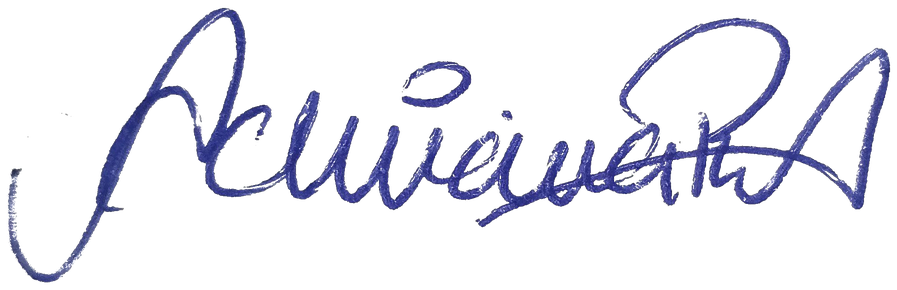
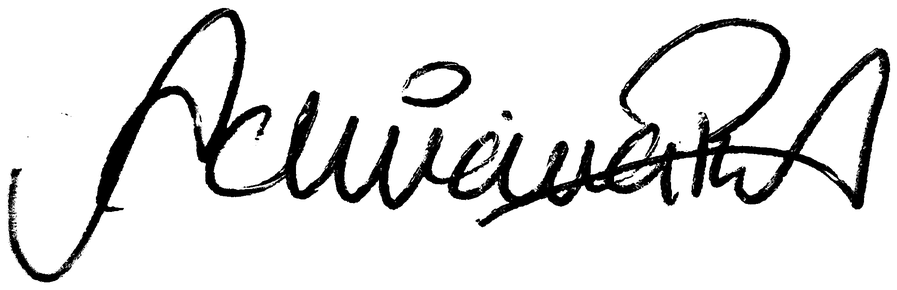
Referencia comercial: firma en negro y años de relación con Smartbit
- public/AdrianaFirma.png: la tinta pasa de azul a negro (fondo sigue
  transparente).
- partner-history: además de la primera factura en Odoo, busca la fecha
  más vieja del cliente en ventas_smartbit (histórico pre-Odoo), cruzando
  por RIF (codigo_cliente = res.partner.vat sin guiones ni espacios) y por
  la sede de la carta (company_id 9/10). Gana la más vieja; si la MySQL no
  responde se sigue con Odoo solo.
- La página pasa company_id según el membrete y muestra de qué fuente salió
  la fecha.

Changed region(s): [[0.0, 0.031, 0.9989, 0.9931], [0.437, 0.1862, 0.5307, 0.3724], [0.5619, 0.3724, 0.5931, 0.4034]]

diff --git a/app/api/superadmin/cuentas-por-cobrar/partner-history/route.ts b/app/api/superadmin/cuentas-por-cobrar/partner-history/route.ts
@@ -1,4 +1,5 @@
 import { callOdooRPC } from "@/lib/odoo";
+import { query } from "@/lib/db";
 import { requireRoles } from "@/lib/auth/roles";
 import { NextRequest, NextResponse } from "next/server";
 
@@ -10,13 +11,20 @@ export const dynamic = "force-dynamic";
  * "Anos de relacion" en la carta era un numero escrito a mano (por defecto 2)
  * sin respaldo en ningun dato real — cualquiera podia imprimir una carta con
  * una antiguedad de relacion comercial inventada. Esto le da al formulario un
- * valor real de donde partir; sigue siendo editable a mano porque puede haber
- * relacion comercial de antes de que existiera este Odoo.
+ * valor real de donde partir; sigue siendo editable a mano.
  *
  * Se consulta TODO el historial (sin filtrar por amount_residual, a
  * diferencia de digiflex.cxc.report) porque un cliente con años de relacion
  * puede tener cero facturas abiertas hoy.
+ *
+ * Odoo solo factura desde el corte de 2026-04-01; lo anterior esta en la
+ * tabla MySQL `ventas_smartbit` (lib/smartbit.ts). Ahi no hay partner_id de
+ * Odoo, asi que se cruza por RIF (`codigo_cliente` = `res.partner.vat`, sin
+ * guiones ni espacios) y por la sede de la carta (`company_id`). Gana la
+ * fecha mas vieja de las dos fuentes.
  */
+const normalizarRif = (v: string) => v.toUpperCase().replace(/[^A-Z0-9]/g, "");
+
 export async function GET(request: NextRequest) {
   const auth = await requireRoles(request, ["cuentas por cobrar"]);
   if (auth.error) return auth.error;
@@ -27,22 +35,49 @@ export async function GET(request: NextRequest) {
     if (!Number.isFinite(partnerId) || partnerId <= 0) {
       return NextResponse.json({ error: "partner_id invalido" }, { status: 400 });
     }
+    const companyId = parseInt(searchParams.get("company_id") || "", 10);
 
-    const invoices = await callOdooRPC<any[]>(
-      "account.move",
-      "search_read",
-      [[
-        ["partner_id", "=", partnerId],
-        ["move_type", "in", ["out_invoice", "out_refund"]],
-        ["state", "=", "posted"],
-      ]],
-      { fields: ["invoice_date"], order: "invoice_date asc", limit: 1 },
-    );
+    const [invoices, partners] = await Promise.all([
+      callOdooRPC<any[]>(
+        "account.move",
+        "search_read",
+        [[
+          ["partner_id", "=", partnerId],
+          ["move_type", "in", ["out_invoice", "out_refund"]],
+          ["state", "=", "posted"],
+        ]],
+        { fields: ["invoice_date"], order: "invoice_date asc", limit: 1 },
+      ),
+      callOdooRPC<any[]>("res.partner", "read", [[partnerId]], { fields: ["vat"] }),
+    ]);
 
-    const firstDate: string | null = invoices?.[0]?.invoice_date || null;
+    const primeraOdoo: string | null = invoices?.[0]?.invoice_date?.split(" ")[0] || null;
+
+    // Historico Smartbit. Si la MySQL no responde se sigue con Odoo solo.
+    let primeraSmartbit: string | null = null;
+    const rif = normalizarRif(partners?.[0]?.vat || "");
+    if (rif && Number.isFinite(companyId)) {
+      try {
+        const { rows } = await query(
+          `SELECT DATE_FORMAT(MIN(fecha), '%Y-%m-%d') AS primera
+             FROM ventas_smartbit
+            WHERE company_id = ?
+              AND REPLACE(REPLACE(UPPER(codigo_cliente), '-', ''), ' ', '') = ?`,
+          [companyId, rif],
+        );
+        primeraSmartbit = (rows as any[])[0]?.primera || null;
+      } catch (e: any) {
+        console.error("partner-history: ventas_smartbit no disponible:", e.message);
+      }
+    }
+
+    const candidatas = [primeraOdoo, primeraSmartbit].filter(Boolean) as string[];
+    const firstDate = candidatas.length ? candidatas.sort()[0] : null;
+    const fuente = !firstDate ? null : firstDate === primeraSmartbit ? "smartbit" : "odoo";
+
     let years: number | null = null;
     if (firstDate) {
-      const [y, m, d] = firstDate.split(" ")[0].split("-").map(Number);
+      const [y, m, d] = firstDate.split("-").map(Number);
       const first = new Date(y, m - 1, d);
       const now = new Date();
       years = now.getFullYear() - first.getFullYear();
@@ -53,7 +88,7 @@ export async function GET(request: NextRequest) {
       years = Math.max(years, 0);
     }
 
-    return NextResponse.json({ success: true, firstInvoiceDate: firstDate, years });
+    return NextResponse.json({ success: true, firstInvoiceDate: firstDate, fuente, years });
   } catch (error: any) {
     console.error("Error obteniendo historial de partner:", error);
     return NextResponse.json({ error: error.message }, { status: 500 });

diff --git a/app/[locale]/cuentas-por-cobrar/referencia-comercial/page.tsx b/app/[locale]/cuentas-por-cobrar/referencia-comercial/page.tsx
@@ -80,6 +80,7 @@ function yearSuffix(y: number): string {
 type Sede = "valencia" | "caracas";
 
 const SEDES: Record<Sede, {
+  companyId: number;
   ciudad: string;
   logo: string;
   logoAncho: string;
@@ -92,6 +93,7 @@ const SEDES: Record<Sede, {
   pie: string;
 }> = {
   valencia: {
+    companyId: 9,
     ciudad: "Valencia",
     logo: "/osclogo.jpg",
     logoAncho: "170px",
@@ -105,6 +107,7 @@ const SEDES: Record<Sede, {
       "Valencia Zona Ind. Sur. Av. Ernesto Berrind, CEI Arturo Michelena Galpón C4 Valencia edo Carabobo | Telefax: (0241) 1326646 | 8728319 e-mail: venta04@osc2004.com Copyright©2010 | Todos los derechos de propiedad intelectual reservada, imágenes propias y referencias",
   },
   caracas: {
+    companyId: 10,
     ciudad: "Caracas",
     logo: "/supricom-reporte-logo.png",
     logoAncho: "200px",
@@ -163,6 +166,7 @@ export default function ReferenciaComercialPage() {
   const [yearsRelation, setYearsRelation] = useState(2);
   const [yearsEdited, setYearsEdited] = useState(false);
   const [firstInvoiceDate, setFirstInvoiceDate] = useState<string | null>(null);
+  const [fuenteFecha, setFuenteFecha] = useState<"odoo" | "smartbit" | null>(null);
   const [loadingHistory, setLoadingHistory] = useState(false);
   const letterRef = useRef<HTMLDivElement>(null);
   const today = new Date();
@@ -174,26 +178,28 @@ export default function ReferenciaComercialPage() {
 
   // Antes "Años de relación" era un numero escrito a mano (por defecto 2)
   // sin respaldo en ningun dato real. Al elegir cliente se calcula desde su
-  // primera factura real en Odoo y se usa como default — sigue siendo
-  // editable a mano por si hay relacion comercial de antes de este sistema.
+  // primera factura real (Odoo o el histórico de Smartbit de la sede de la
+  // carta) y se usa como default — sigue siendo editable a mano.
   useEffect(() => {
     if (!selectedPartner) {
       setFirstInvoiceDate(null);
+      setFuenteFecha(null);
       return;
     }
     setYearsEdited(false);
     setLoadingHistory(true);
-    fetch(`/api/superadmin/cuentas-por-cobrar/partner-history?partner_id=${selectedPartner.id}`)
+    fetch(`/api/superadmin/cuentas-por-cobrar/partner-history?partner_id=${selectedPartner.id}&company_id=${membrete.companyId}`)
       .then((r) => r.json())
       .then((json) => {
         if (json.success) {
           setFirstInvoiceDate(json.firstInvoiceDate);
+          setFuenteFecha(json.fuente || null);
           if (json.years !== null) setYearsRelation(Math.max(json.years, 1));
         }
       })
       .catch(() => {})
       .finally(() => setLoadingHistory(false));
-  }, [selectedPartner]);
+  }, [selectedPartner, membrete.companyId]);
 
   const fetchPartners = useCallback(async () => {
     setLoading(true);
@@ -520,7 +526,7 @@ svg { display: block; }
               {loadingHistory
                 ? "Calculando desde su primera factura..."
                 : firstInvoiceDate
-                  ? `${yearsEdited ? "Sugerido" : "Calculado"} desde su primera factura (${firstInvoiceDate.split(" ")[0].split("-").reverse().join("/")})`
+                  ? `${yearsEdited ? "Sugerido" : "Calculado"} desde su primera factura (${firstInvoiceDate.split(" ")[0].split("-").reverse().join("/")}, ${fuenteFecha === "smartbit" ? "histórico Smartbit" : "Odoo"})`
                   : selectedPartner
                     ? "Sin facturas registradas — ingrese el dato manualmente"
                     : ""}
